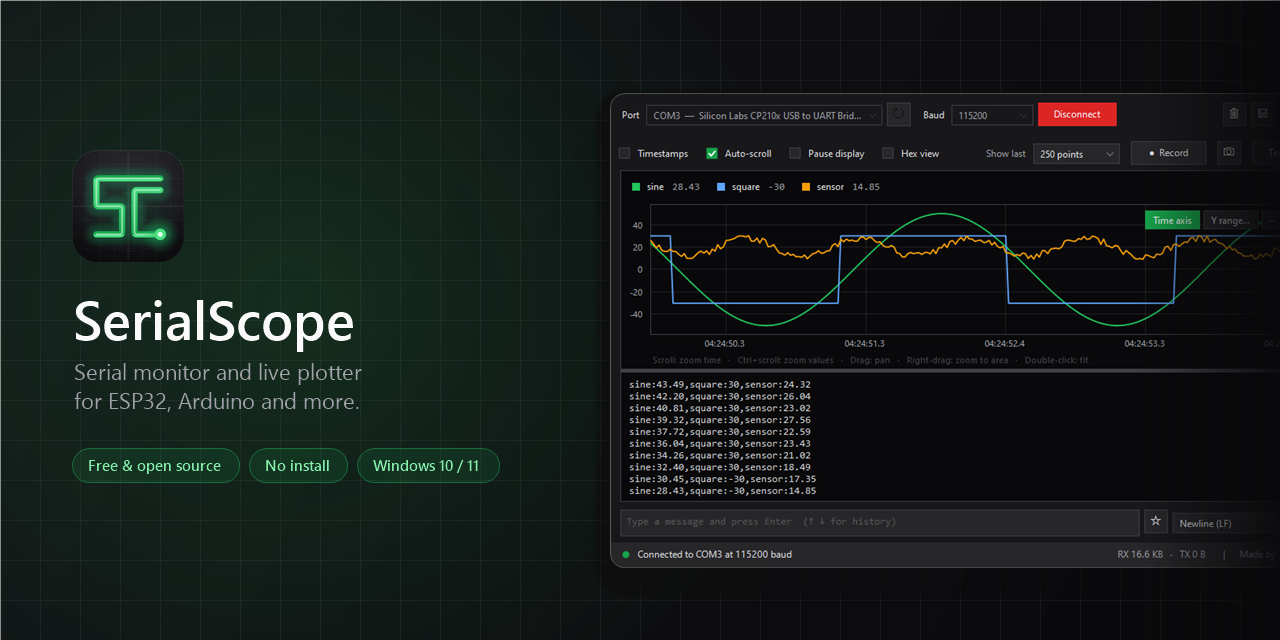
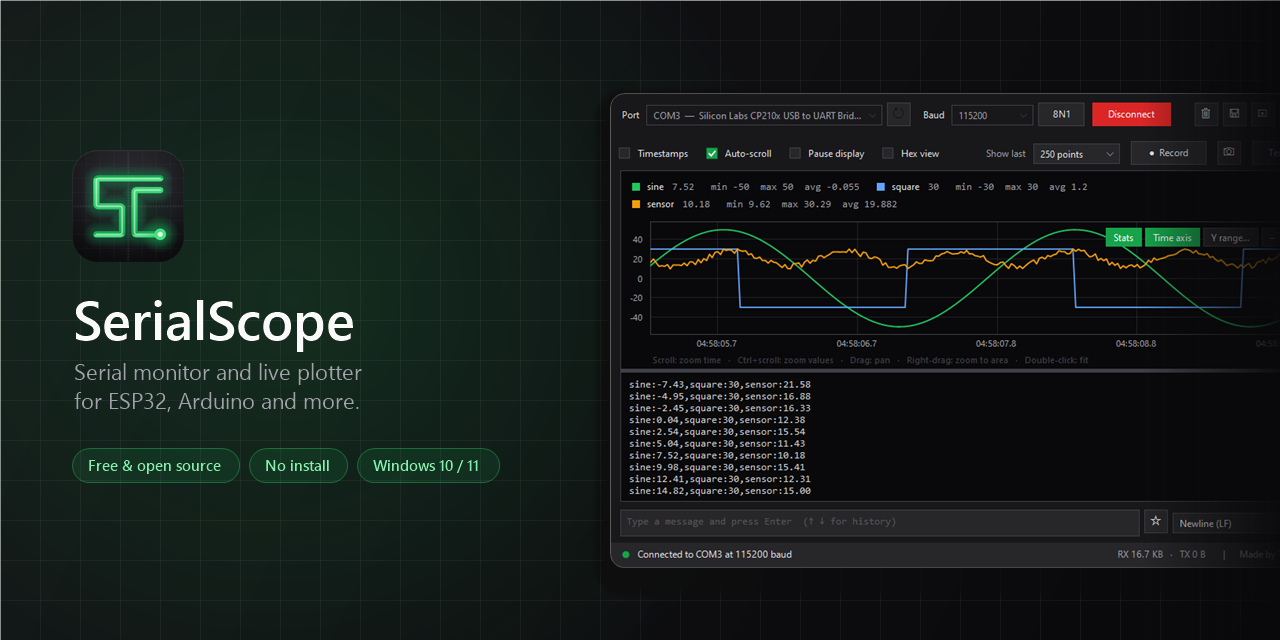
Prepare 1.2.0: README, changelog, screenshots and optional code signing
The release build signs the exe through SignPath once the repository has a SIGNPATH_API_TOKEN secret and SIGNPATH_ORGANIZATION_ID variable; until then it is skipped.

diff --git a/src/AppInfo.cs b/src/AppInfo.cs
@@ -2,13 +2,13 @@ using System.Reflection;
 using System.Runtime.InteropServices;
 
 [assembly: AssemblyTitle("SerialScope")]
-[assembly: AssemblyDescription("A clean, lightweight serial monitor for Windows.")]
+[assembly: AssemblyDescription("A clean, lightweight serial monitor and plotter for Windows.")]
 [assembly: AssemblyCompany("Tejas")]
 [assembly: AssemblyProduct("SerialScope")]
 [assembly: AssemblyCopyright("Copyright (c) 2026 Tjs4002")]
-[assembly: AssemblyVersion("1.1.0.0")]
-[assembly: AssemblyFileVersion("1.1.0.0")]
-[assembly: AssemblyInformationalVersion("1.1.0")]
+[assembly: AssemblyVersion("1.2.0.0")]
+[assembly: AssemblyFileVersion("1.2.0.0")]
+[assembly: AssemblyInformationalVersion("1.2.0")]
 [assembly: ComVisible(false)]
 
 namespace SerialScope
@@ -16,7 +16,7 @@ namespace SerialScope
     internal static class AppInfo
     {
         public const string Name = "SerialScope";
-        public const string Version = "1.1.0";
+        public const string Version = "1.2.0";
         public const string Author = "Tejas";
         public const string GitHubUser = "Tjs4002";
         public const string ProfileUrl = "https://github.com/Tjs4002";

diff --git a/README.md b/README.md
@@ -5,7 +5,7 @@
 <p align="center">
   <a href="https://github.com/Tjs4002/SerialScope/releases/latest"><img src="https://img.shields.io/github/v/release/Tjs4002/SerialScope?style=flat-square&label=release&color=16a34a" alt="Latest release"></a>
   <a href="https://github.com/Tjs4002/SerialScope/releases"><img src="https://img.shields.io/github/downloads/Tjs4002/SerialScope/total?style=flat-square&color=16a34a" alt="Downloads"></a>
-  <a href="https://github.com/Tjs4002/SerialScope/actions/workflows/build.yml"><img src="https://img.shields.io/github/actions/workflow/status/Tjs4002/SerialScope/build.yml?style=flat-square&label=build" alt="Build status"></a>
+  <a href="https://github.com/Tjs4002/SerialScope/actions/workflows/build.yml"><img src="https://img.shields.io/github/actions/workflow/status/Tjs4002/SerialScope/build.yml?style=flat-square&label=build%20%26%20tests" alt="Build and test status"></a>
   <img src="https://img.shields.io/badge/platform-Windows%2010%20%7C%2011-0078d4?style=flat-square" alt="Platform: Windows 10 and 11">
   <a href="LICENSE"><img src="https://img.shields.io/github/license/Tjs4002/SerialScope?style=flat-square&color=blue" alt="MIT license"></a>
 </p>
@@ -17,6 +17,10 @@
   &nbsp;·&nbsp;
   <a href="#plotter"><b>Plotter</b></a>
   &nbsp;·&nbsp;
+  <a href="#highlighting-filtering-and-search"><b>Highlighting</b></a>
+  &nbsp;·&nbsp;
+  <a href="#port-settings"><b>Port settings</b></a>
+  &nbsp;·&nbsp;
   <a href="#build-from-source"><b>Build</b></a>
   &nbsp;·&nbsp;
   <a href="#faq"><b>FAQ</b></a>
@@ -24,7 +28,7 @@
 
 <br>
 
-**SerialScope** is a fast, good-looking serial monitor and plotter for Windows. Open it, pick your board's port and see what it's saying, as text or as live graphs. It's a single `.exe` of about 150 KB, with nothing to install.
+**SerialScope** is a fast, good-looking serial monitor and plotter for Windows. Open it, pick your board's port and see what it's saying, as text or as live graphs. It's a single `.exe` of under 250 KB, with nothing to install.
 
 <table>
   <tr>
@@ -34,11 +38,11 @@
     </td>
     <td width="33%" valign="top">
       <h3>📈 Live plotter</h3>
-      Numbers become scrolling graphs, using the Arduino Serial Plotter format. Zoom, pan, hover and record to CSV.
+      Numbers become scrolling graphs, using the Arduino Serial Plotter format. Zoom, pan, stats and CSV recording.
     </td>
     <td width="33%" valign="top">
-      <h3>🔌 Board friendly</h3>
-      Connecting doesn't reset your ESP32 or Arduino, and it reconnects by itself after you unplug or reflash.
+      <h3>🔌 Works with any device</h3>
+      ESP32 and Arduino friendly out of the box, with full port settings for everything else.
     </td>
   </tr>
 </table>
@@ -48,14 +52,16 @@
 **Connecting**
 - **Port picker with device names:** shows `COM3 — Silicon Labs CP210x…` instead of a bare number, and updates when you plug devices in or out.
 - **Any baud rate:** 300 to 2,000,000 built in, plus **Custom…** for anything else.
+- **Full port settings:** data bits, parity, stop bits, flow control (RTS/CTS, XON/XOFF) and the DTR/RTS lines. See [Port settings](#port-settings).
 - **Auto-reconnect:** unplug the board or flash new firmware, and SerialScope picks it back up when the port returns.
-- **No surprise resets:** DTR and RTS stay low, so your board keeps running when you connect.
+- **No surprise resets:** DTR and RTS stay low by default, so your board keeps running when you connect.
+- **Several devices at once:** **New window** (<kbd>Ctrl</kbd> + <kbd>N</kbd>) opens another window on a different port.
 
 **Reading**
-- **Error and warning highlighting:** errors in red, warnings in amber and debug lines dimmed. Understands ESP-IDF (`E (123) wifi:`) and Arduino-ESP32 (`[E][main.cpp:42]`) logs out of the box.
-- **Search** with <kbd>Ctrl</kbd> + <kbd>F</kbd>: every match highlighted, with next/previous and a match count.
+- **Error and warning highlighting** for ESP-IDF (`E (123) wifi:`) and Arduino-ESP32 (`[E][main.cpp:42]`) logs, plus **your own highlight rules** by word or regular expression.
+- **Search and filter:** find every match, or show only (or hide) the lines that contain a word.
 - **Hex view** for binary devices: offsets, raw bytes and printable characters.
-- **Live plotter** with zoom, pan, box zoom, hover values, a time axis and fixed ranges. See [Plotter](#plotter).
+- **Live plotter** with zoom, pan, hover values, min/max/average stats, a time axis and fixed ranges. See [Plotter](#plotter).
 - **Record to CSV** for Excel, Google Sheets or Python, and **save graphs** as PNG images.
 - **Timestamps** to the millisecond, and **Pause display** without losing data.
 
@@ -65,11 +71,11 @@
 - **Saved commands:** keep the messages you send often one click away (★ button).
 
 **Comfort**
-- **Session logs:** optionally save everything to `Documents\SerialScope\Logs`, one file per connection.
-- **Update notice** in the status bar when a new version is out.
+- **Session logs:** optionally save everything to a file, one per connection.
+- **Portable mode:** keep settings and logs next to the `.exe`, to run it from a USB stick.
+- **Command-line options** to open a port and connect from a shortcut or script.
+- **Update notice** in the status bar when a new version is out, and a **friendly crash screen** that can file a bug report for you.
 - **Dark and light themes,** right down to the title bar, scroll bars and menus.
-- **Keyboard shortcuts** and adjustable text size.
-- **Remembers everything:** port, baud rate, theme, view, options, history and window size.
 
 <table>
   <tr>
@@ -97,7 +103,7 @@ scoop install https://github.com/Tjs4002/SerialScope/releases/latest/download/se
 Each release also includes `SHA256SUMS.txt`, so you can check your download with `Get-FileHash SerialScope.exe`.
 
 > [!NOTE]
-> **"Windows protected your PC"?** SerialScope isn't code-signed yet, so SmartScreen may warn you the first time. Click **More info → Run anyway**. Prefer not to trust a downloaded binary? [Build it yourself](#build-from-source) in a few seconds; every release is also built publicly by [GitHub Actions](https://github.com/Tjs4002/SerialScope/actions).
+> **"Windows protected your PC"?** SerialScope isn't code-signed yet, so SmartScreen may warn you the first time. Click **More info → Run anyway**. Prefer not to trust a downloaded binary? [Build it yourself](#build-from-source) in a few seconds; every release is also built and tested publicly by [GitHub Actions](https://github.com/Tjs4002/SerialScope/actions).
 
 **Requirements:** Windows 10 or 11. Windows 7 and 8.1 with .NET Framework 4.5 or later should also work.
 
@@ -113,7 +119,7 @@ Each release also includes `SHA256SUMS.txt`, so you can check your download with
 ## Plotter
 
 <p align="center">
-  <img src="docs/screenshot-plotter.png" alt="SerialScope plotter showing three live waveforms with the text output below" width="820">
+  <img src="docs/screenshot-plotter.png" alt="SerialScope plotter showing three live waveforms with min, max and average in the legend" width="820">
 </p>
 
 Click **Plotter** (or press <kbd>Ctrl</kbd> + <kbd>2</kbd>). Print one reading per line, in the same format as the Arduino Serial Plotter:
@@ -136,25 +142,77 @@ Want to try it now? Flash [`examples/PlotterDemo`](examples/PlotterDemo/PlotterD
 | Zoom into an area | Right-drag a box |
 | Fit everything | Double-click, or **Fit** |
 | Exact values | Hover over the graph |
+| Min, max and average | **Stats** button on the graph (for the part you're looking at) |
 | Hide or show a line | Click its name in the legend |
 | Record to CSV | **● Record**, then **■ Stop** to save |
 | Save the graph as an image | Camera button next to **Record** |
 | Clock time on the bottom axis | **Time axis** button on the graph |
 | Fixed value range (e.g. 0–4095) | **Y range…** button on the graph; **Automatic** to undo |
 
-## Highlighting, search and hex view
+## Highlighting, filtering and search
 
-- **Highlighting** colours whole lines: red for errors, amber for warnings, dimmed for debug output. It recognises ESP-IDF logs (`E (1234) wifi: …`), Arduino-ESP32 logs (`[  1234][W][main.cpp:42] …`) and lines containing words like *error*, *panic*, *failed* or *timeout*. Turn it off under ⚙ **Settings**.
-- **Search** (<kbd>Ctrl</kbd> + <kbd>F</kbd>) highlights every match. <kbd>Enter</kbd> / <kbd>Shift</kbd> + <kbd>Enter</kbd> (or <kbd>F3</kbd>) jump between them; <kbd>Esc</kbd> closes the bar. Auto-scroll pauses while you search.
+- **Built-in highlighting** colours whole lines: red for errors, amber for warnings, dimmed for debug output. It recognises ESP-IDF logs (`E (1234) wifi: …`), Arduino-ESP32 logs (`[  1234][W][main.cpp:42] …`) and words like *error*, *panic*, *failed* or *timeout*.
+- **Your own rules** (⚙ **Settings → Highlight rules…**): colour lines that contain a word, like `TEMP` in blue or `OK` in green, or that match a regular expression. Rules are checked from top to bottom and come before the built-in colours.
+- **Search** (<kbd>Ctrl</kbd> + <kbd>F</kbd>) highlights every match. <kbd>Enter</kbd> / <kbd>Shift</kbd> + <kbd>Enter</kbd> (or <kbd>F3</kbd>) jump between them; <kbd>Esc</kbd> closes the bar.
+- **Filter:** in the search bar, set **Show** to *Only matching* or *Hide matching* to cut the noise. It applies to everything already received, not just new lines.
 - **Hex view** shows 16 bytes per line with the offset, the bytes in hex and their printable characters, for GPS modules, Modbus devices and other binary protocols.
 
+<table>
+  <tr>
+    <td><img src="docs/screenshot-rules.png" alt="Highlight rules dialog"></td>
+    <td><img src="docs/screenshot-filter.png" alt="Search bar showing only lines that contain wifi"></td>
+  </tr>
+  <tr>
+    <td align="center"><sub>Your own highlight rules</sub></td>
+    <td align="center"><sub>Showing only the lines that mention "wifi"</sub></td>
+  </tr>
+</table>
+
 Try them with [`examples/LogDemo`](examples/LogDemo/LogDemo.ino): it prints log lines at every level, answers what you send, and sends raw bytes when you type `binary`.
+
+## Port settings
+
+<img src="docs/screenshot-port-settings.png" alt="Port settings dialog" width="360" align="right">
+
+The **8N1** button next to the baud rate opens the port settings:
+
+- **Data bits** (5–8), **parity** (none, odd, even, mark, space) and **stop bits** (1, 1.5, 2). The button always shows the current setting, e.g. `7E1`.
+- **Flow control:** none, RTS/CTS (hardware), XON/XOFF (software), or both.
+- **DTR and RTS** control lines. Leave them off for ESP32 and Arduino boards, whose reset circuit uses them.
+
+Changes apply straight away, even while connected.
+
+<br clear="right">
+
+## More ways to run it
+
+**Several devices at once.** **New window** (<kbd>Ctrl</kbd> + <kbd>N</kbd>, or the window button in the toolbar) opens another SerialScope window on a different port. Use Windows Snap (<kbd>Win</kbd> + <kbd>←</kbd> / <kbd>→</kbd>) to put them side by side.
+
+**Command line.** Open a port and connect straight from a shortcut, script or IDE:
+
+```bat
+SerialScope.exe --port COM3 --baud 115200 --connect --plot
+```
+
+| Option | Does |
+|---|---|
+| `--port COM3` | Select a port |
+| `--baud 115200` | Select a baud rate |
+| `--connect` | Connect straight away |
+| `--plot` / `--text` | Open in plotter or text view |
+| `--hex` | Turn on hex view |
+| `--log` | Save a session log |
+| `--theme dark` / `--theme light` | Choose the theme |
+| `--help` | Show all options |
+
+**Portable mode.** Turn on ⚙ **Settings → Portable mode** and SerialScope keeps its settings in `SerialScope.ini` next to the `.exe`, and session logs in a `Logs` folder beside it. Copy the folder to a USB stick and your setup comes with you.
 
 ## Keyboard shortcuts
 
 | Shortcut | Action |
 |---|---|
 | <kbd>F5</kbd> | Connect / disconnect |
+| <kbd>Ctrl</kbd> + <kbd>N</kbd> | New window |
 | <kbd>Ctrl</kbd> + <kbd>1</kbd> / <kbd>2</kbd> | Text view / Plotter |
 | <kbd>Ctrl</kbd> + <kbd>F</kbd> | Find in output |
 | <kbd>F3</kbd> / <kbd>Shift</kbd> + <kbd>F3</kbd> | Next / previous match |
@@ -174,7 +232,7 @@ cd SerialScope
 build.bat
 ```
 
-The app is written to `bin\SerialScope.exe`.
+The app is written to `bin\SerialScope.exe`. Run the automated tests with `tests\run-tests.bat`; GitHub runs them on every change too.
 
 <details>
 <summary><b>Project layout</b></summary>
@@ -182,29 +240,32 @@ The app is written to `bin\SerialScope.exe`.
 ```
 SerialScope/
 ├── src/
-│   ├── MainForm.cs        Main window: connection, output, sending, settings
-│   ├── OutputView.cs      Coloured output, highlighting rules and search
-│   ├── PlotView.cs        Live graph with zoom, pan, time axis and hover values
-│   ├── Recorder.cs        Records plotted readings to CSV
-│   ├── UpdateChecker.cs   Checks GitHub for a newer release
-│   ├── Controls.cs        Themed buttons, drop-downs, check boxes, menus
-│   ├── Theme.cs           Dark and light colour palettes
-│   ├── PortInfo.cs        Port list with friendly device names
-│   ├── Settings.cs        Saved preferences (%APPDATA%\SerialScope\settings.ini)
-│   ├── AboutForm.cs       About dialog
-│   ├── CustomBaudForm.cs  Custom baud rate dialog
-│   ├── RangeForm.cs       Plotter value range dialog
-│   ├── AppInfo.cs         Name, version, author, links
-│   ├── Program.cs         Entry point
-│   ├── app.ico            Application icon
-│   └── app.manifest       DPI awareness and modern Windows controls
+│   ├── MainForm.cs            Main window: connection, output, sending, settings
+│   ├── OutputView.cs          Coloured output, built-in highlighting and search
+│   ├── HighlightRules.cs      Your own highlight rules
+│   ├── PlotView.cs            Live graph with zoom, pan, stats, time axis and hover values
+│   ├── Recorder.cs            Records plotted readings to CSV
+│   ├── PortConfig.cs          Data bits, parity, stop bits, flow control, DTR/RTS
+│   ├── CommandLine.cs         Command-line options
+│   ├── CrashHandler.cs        Friendly crash screen and bug report link
+│   ├── UpdateChecker.cs       Checks GitHub for a newer release
+│   ├── Settings.cs            Saved preferences (AppData, or next to the exe in portable mode)
+│   ├── Controls.cs            Themed buttons, drop-downs, check boxes, menus
+│   ├── Theme.cs               Dark and light colour palettes
+│   ├── PortInfo.cs            Port list with friendly device names
+│   ├── *Form.cs               Dialogs: about, port settings, highlight rules, baud, range
+│   ├── AppInfo.cs             Name, version, author, links
+│   ├── Program.cs             Entry point
+│   ├── app.ico                Application icon
+│   └── app.manifest           DPI awareness and modern Windows controls
+├── tests/                     Automated tests (tests\run-tests.bat)
 ├── examples/
-│   ├── PlotterDemo        Prints test waveforms for the plotter
-│   └── LogDemo            Prints log levels and answers commands
-├── packaging/             Scoop manifest template (winget manifests are generated)
-├── tools/                 Icon, banner and winget manifest generators
-├── docs/                  Screenshots and README images
-└── build.bat              One-step build
+│   ├── PlotterDemo            Prints test waveforms for the plotter
+│   └── LogDemo                Prints log levels and answers commands
+├── packaging/                 Scoop template and winget manifests
+├── tools/                     Icon, banner and winget manifest generators
+├── docs/                      Screenshots and README images
+└── build.bat                  One-step build
 ```
 </details>
 
@@ -213,13 +274,13 @@ SerialScope/
 <details>
 <summary><b>It says the port is busy or in use.</b></summary>
 
-Another program has the port open: usually the Arduino IDE's Serial Monitor, an upload in progress, or a second copy of SerialScope. Close it and click **Connect** again.
+Another program has the port open: usually the Arduino IDE's Serial Monitor, an upload in progress, or another SerialScope window. Close it and click **Connect** again.
 </details>
 
 <details>
 <summary><b>I only see garbage characters.</b></summary>
 
-The baud rate doesn't match your code. Pick the same number you used in `Serial.begin(...)`. ESP32 boot messages use 115200.
+The baud rate doesn't match your code. Pick the same number you used in `Serial.begin(...)`. ESP32 boot messages use 115200. For non-Arduino devices, also check the [port settings](#port-settings) (for example 7E1 instead of 8N1).
 </details>
 
 <details>
@@ -235,15 +296,21 @@ Each line must contain only numbers, optionally with names, like `23.5`, `1 2 3`
 </details>
 
 <details>
+<summary><b>The same few characters repeat thousands of times.</b></summary>
+
+That's a USB-serial adapter glitch, usually after switching flow control or right after a firmware upload. Unplug the board and plug it back in.
+</details>
+
+<details>
 <summary><b>Does SerialScope connect to the internet?</b></summary>
 
-Only to check for updates: at most twice a day it asks GitHub's public API for the latest release version. No data about you or your devices is sent. Turn it off under ⚙ **Settings → Check for updates automatically**.
+Only to check for updates: at most twice a day it asks GitHub's public API for the latest release version. No data about you or your devices is sent. Turn it off under ⚙ **Settings → Check for updates automatically**. Crash reports are only sent if you click **Report on GitHub** and submit the form yourself.
 </details>
 
 <details>
 <summary><b>Where are session logs saved?</b></summary>
 
-In `Documents\SerialScope\Logs`, one file per connection named after the port and time (e.g. `COM3-2026-10-04-143012.txt`). Turn them on and open the folder from ⚙ **Settings**.
+In `Documents\SerialScope\Logs` (or a `Logs` folder next to the `.exe` in portable mode), one file per connection named after the port and time, e.g. `COM3-2026-10-04-143012.txt`. Turn them on and open the folder from ⚙ **Settings**.
 </details>
 
 <details>
@@ -254,7 +321,7 @@ Not yet. SerialScope uses Windows' built-in tools to stay tiny and install-free.
 
 ## Contributing
 
-Bug reports, ideas and pull requests are welcome. Start with an [issue](https://github.com/Tjs4002/SerialScope/issues/new/choose), and see [CONTRIBUTING.md](CONTRIBUTING.md) for how to build and submit changes.
+Bug reports, ideas and pull requests are welcome. Start with an [issue](https://github.com/Tjs4002/SerialScope/issues/new/choose), and see [CONTRIBUTING.md](CONTRIBUTING.md) for how to build, test and submit changes.
 
 If SerialScope saves you time, a ⭐ on the repo helps other people find it.
 

diff --git a/CONTRIBUTING.md b/CONTRIBUTING.md
@@ -15,26 +15,29 @@ Thanks for helping out. Bug reports, ideas and pull requests are all welcome.
 
 1. Fork the repository and create a branch for your change.
 2. Edit the files in `src/`.
-3. Run `build.bat` and test `bin\SerialScope.exe` with a real device if you can.
-4. Open a pull request describing what changed and why.
+3. Run the automated tests with `tests\run-tests.bat`. They must all pass; GitHub runs them on every pull request too.
+4. Add a test in `tests/Tests.cs` for anything that can be checked without hardware (parsing, colouring, settings and so on). A test is a static method marked `[Test]` that throws if something is wrong.
+5. Run `build.bat` and try `bin\SerialScope.exe` with a real device if you can.
+6. Open a pull request describing what changed and why.
 
 ### Guidelines
 
 - **Keep it dependency-free.** The project builds with the `csc.exe` that ships with Windows, which supports C# 5. Please avoid newer syntax (string interpolation `$"..."`, `?.`, `nameof`, expression-bodied members) and NuGet packages.
 - **Keep it small and fast.** SerialScope is meant to open instantly and stay out of the way.
 - **Match the existing style:** four-space indents, braces on new lines, short comments only where the code isn't obvious.
-- Add a line to [CHANGELOG.md](CHANGELOG.md) under an *Unreleased* heading.
+- Add a line to [CHANGELOG.md](CHANGELOG.md) under an *Unreleased* heading, and update the README if the change is visible to users.
 
 ## Releasing (maintainers)
 
-1. Update the version in `src/AppInfo.cs` (both the attributes and `AppInfo.Version`) and in `CHANGELOG.md`.
+1. Update the version in `src/AppInfo.cs` (both the attributes and `AppInfo.Version`), date the entry in `CHANGELOG.md`, and refresh README screenshots if the UI changed.
 2. Commit, then tag and push:
    ```bat
    git tag v1.0.1
    git push origin v1.0.1
    ```
 3. GitHub Actions builds `SerialScope.exe` and attaches it to a new release automatically, together with `SHA256SUMS.txt` and the Scoop manifest `serialscope.json`.
-4. Optional, for winget: once the release is published, generate the manifests and submit them to [microsoft/winget-pkgs](https://github.com/microsoft/winget-pkgs):
+4. Code signing happens automatically during the release build once SignPath is set up: add a `SIGNPATH_API_TOKEN` repository secret and a `SIGNPATH_ORGANIZATION_ID` repository variable (Settings → Secrets and variables → Actions). Without them, releases are built unsigned.
+5. Optional, for winget: once the release is published, generate the manifests and submit them to [microsoft/winget-pkgs](https://github.com/microsoft/winget-pkgs):
    ```bat
    powershell -ExecutionPolicy Bypass -File tools\make-winget-manifest.ps1 -Version 1.0.1
    wingetcreate submit packaging\winget\1.0.1

diff --git a/CHANGELOG.md b/CHANGELOG.md
@@ -3,6 +3,28 @@
 All notable changes to SerialScope are listed here.
 The format follows [Keep a Changelog](https://keepachangelog.com/en/1.1.0/), and versions follow [Semantic Versioning](https://semver.org/).
 
+## [1.2.0] - Unreleased
+
+### Added
+- **Port settings:** data bits, parity, stop bits, flow control (RTS/CTS, XON/XOFF) and DTR/RTS, from the new 8N1 button. Changes apply while connected.
+- **Highlight rules:** colour lines by word or regular expression (⚙ Settings → Highlight rules…).
+- **Filter:** show only, or hide, the lines that match the search text. Applies to everything already received.
+- **Plotter statistics:** min, max and average of the visible readings in the legend (Stats button).
+- **New window** (<kbd>Ctrl</kbd>+<kbd>N</kbd>) for working with several devices at once; it opens on a different port.
+- **Command-line options:** `--port`, `--baud`, `--connect`, `--plot`, `--text`, `--hex`, `--log`, `--theme`, `--help`.
+- **Portable mode:** settings and logs next to the exe.
+- **Crash screen** with a copy of the details and a button that opens a pre-filled bug report.
+- **Automated tests**, run on every GitHub build.
+
+### Changed
+- Settings are merged when saving, so several open windows don't overwrite each other.
+- Changing the theme, highlighting or rules now redraws the existing output from a line history.
+
+### Fixed
+- Garbage characters right after a firmware upload (stale data from the USB-serial driver is now discarded on connect).
+- Auto-reconnect and highlighting turning themselves back on at startup after being switched off.
+- Title bar not switching to the light theme straight away on Windows 10, and plotter time labels clipped at the edge.
+
 ## [1.1.0] - 2026-10-04
 
 ### Added
@@ -43,5 +65,6 @@ First public release.
 - Saved preferences: port, baud rate, theme, options, font size and window size.
 - Creator credit with GitHub profile link in the status bar and About dialog.
 
+[1.2.0]: https://github.com/Tjs4002/SerialScope/releases/tag/v1.2.0
 [1.1.0]: https://github.com/Tjs4002/SerialScope/releases/tag/v1.1.0
 [1.0.0]: https://github.com/Tjs4002/SerialScope/releases/tag/v1.0.0
